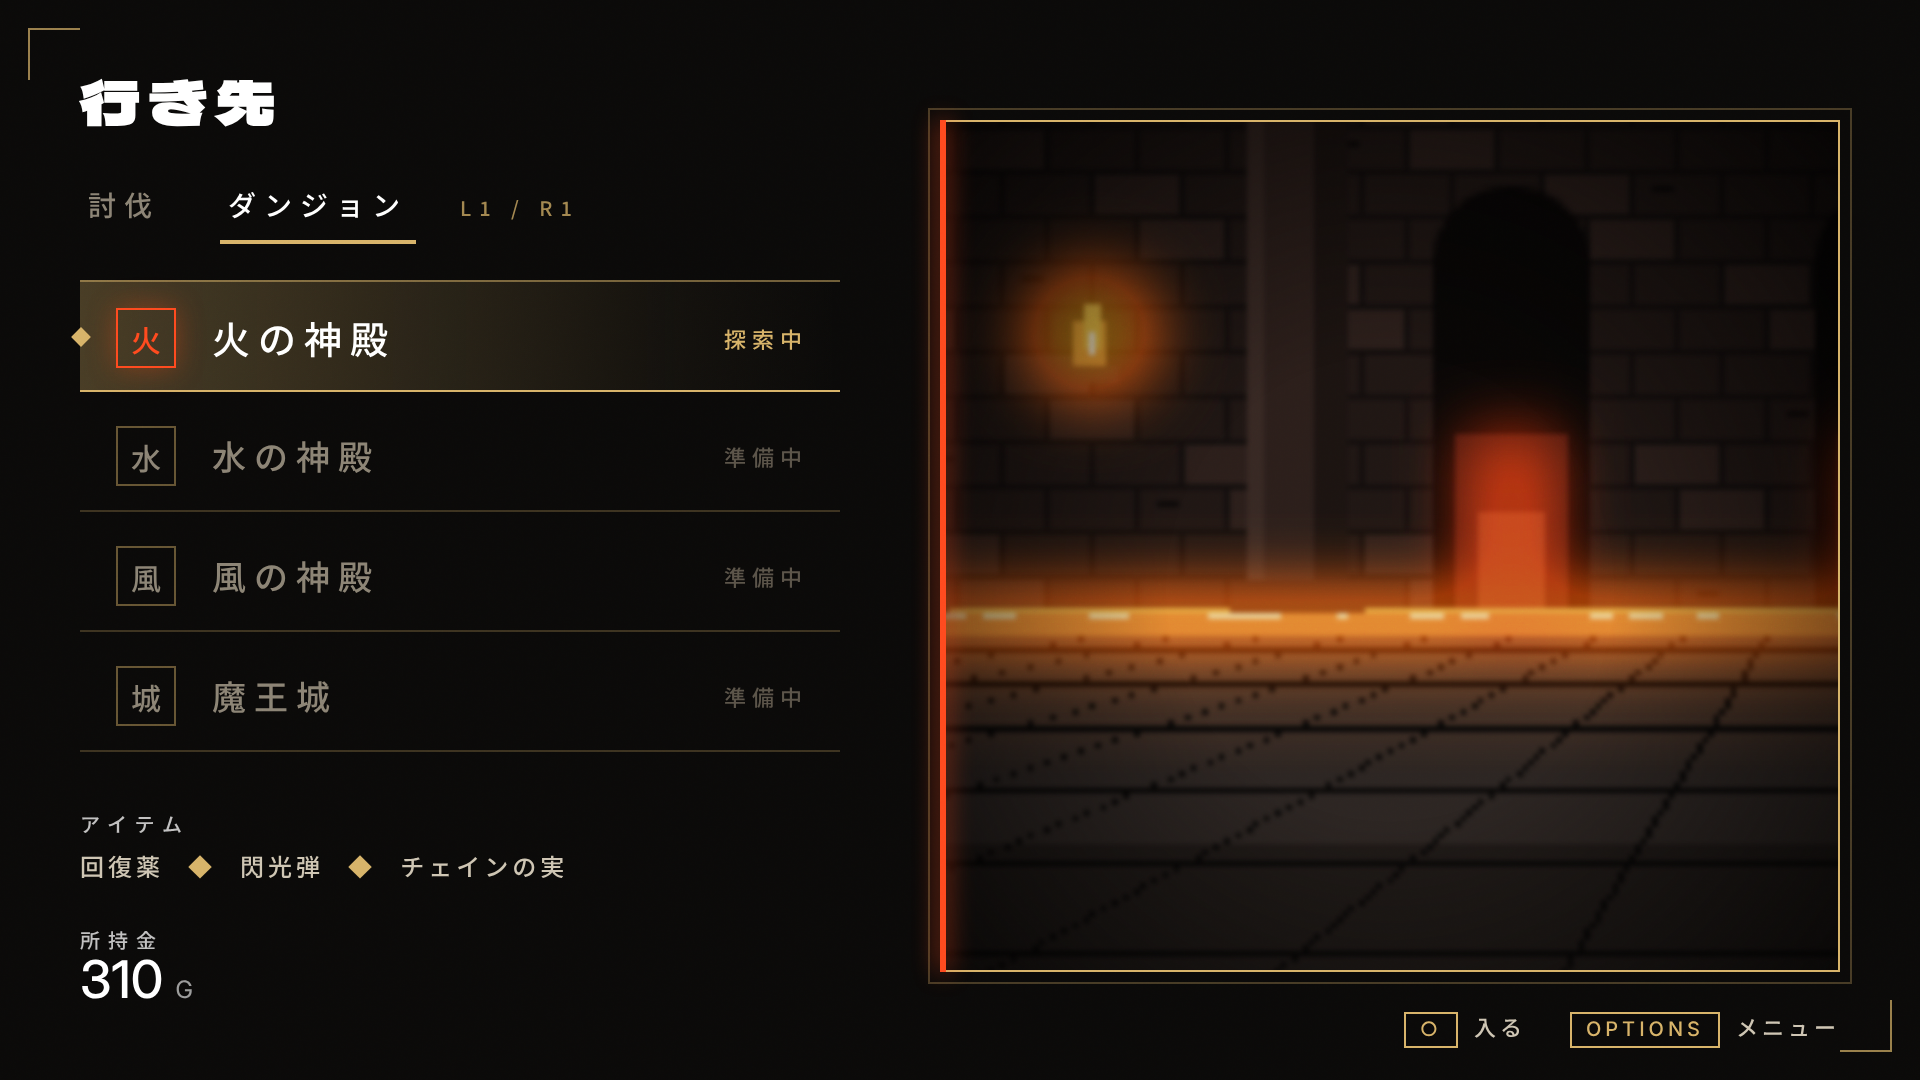
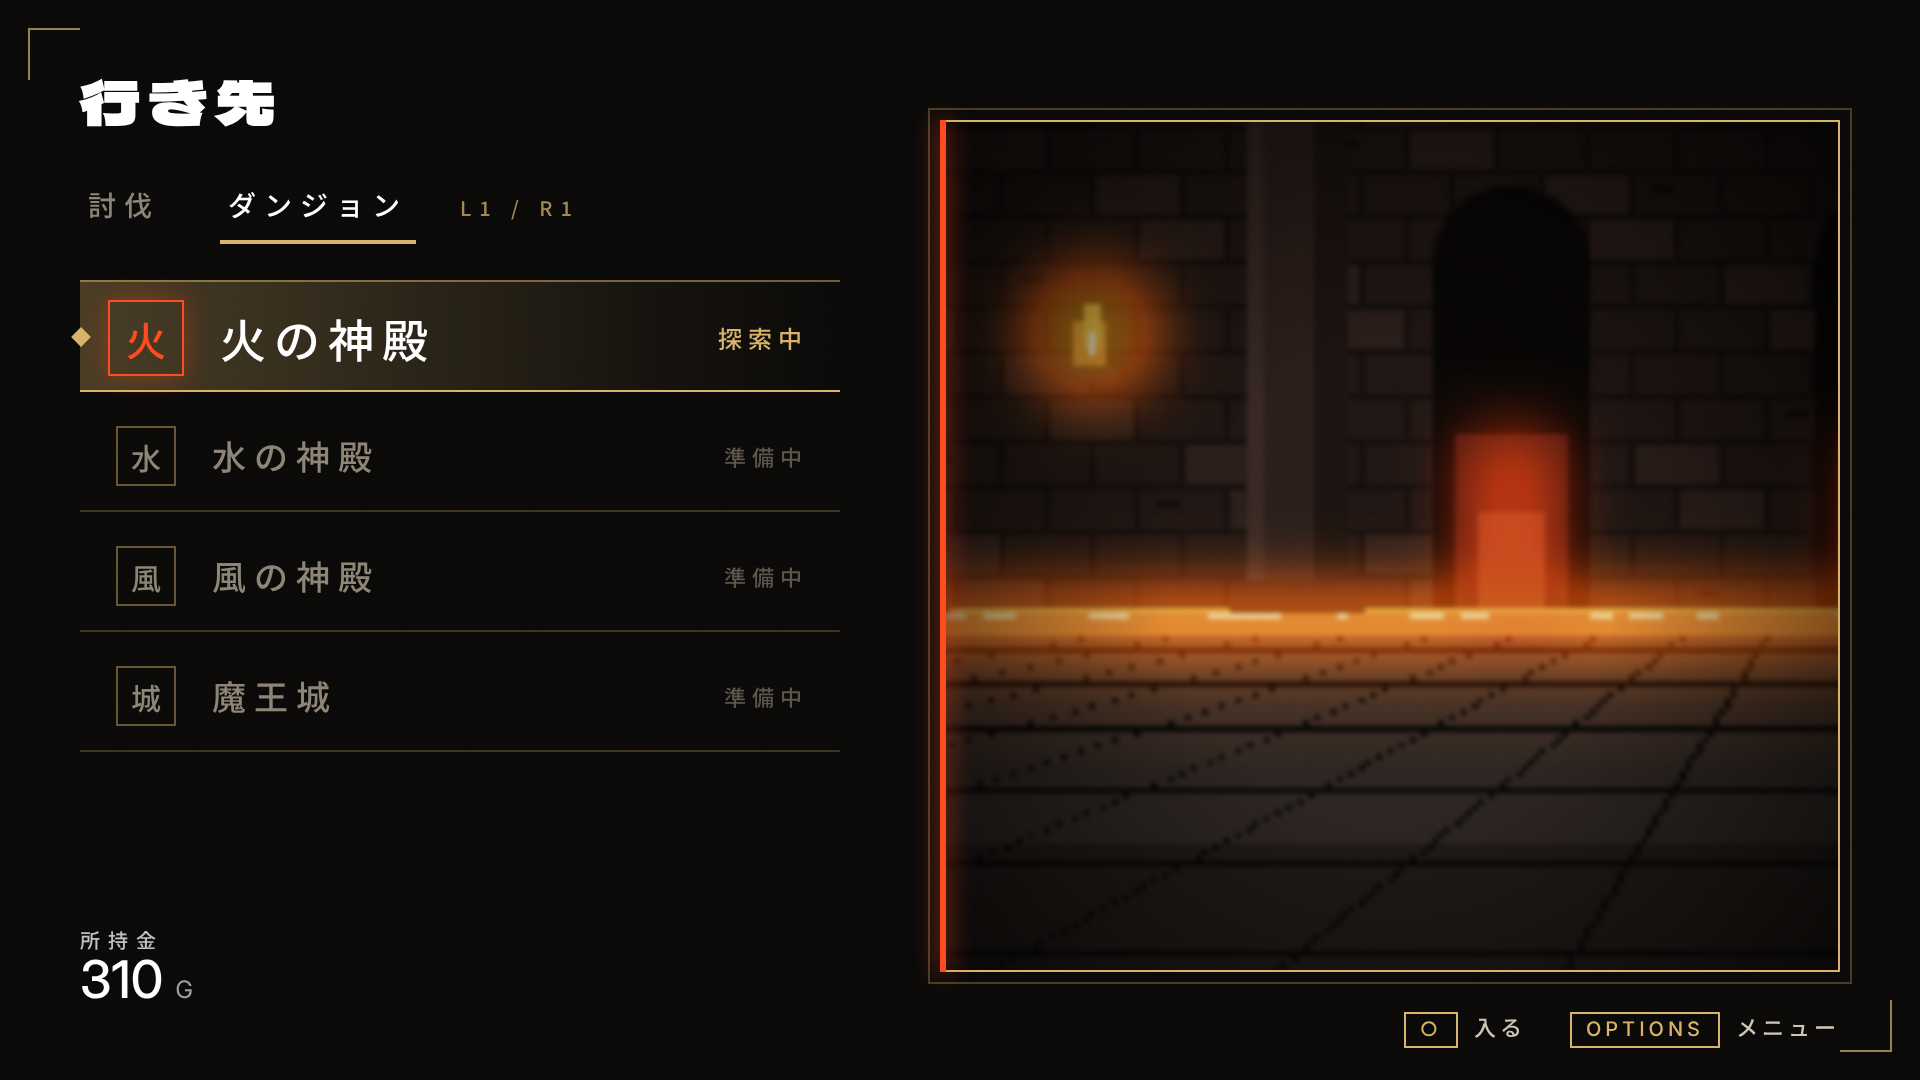
入口にいる間だけ、盤面のメニューから装備を変えられるようにする。行き先の見本を更新
Claude-Session: https://claude.ai/code/session_012hkhuSusvzYz9LFeArYnkn

Changed region(s): [[0.0312, 0.275, 0.2188, 0.3667], [0.0312, 0.7944, 0.3125, 0.825], [0.375, 0.3056, 0.4062, 0.3361]]

diff --git a/src/scenes/GameScene.ts b/src/scenes/GameScene.ts
@@ -9,7 +9,7 @@ import { DungeonRun, type DungeonDef, type Effect } from '../game/dungeon';
 import { clearSave, loadSave, rankOf, rankValue, storeSave, type Rank, type SaveData } from '../game/save';
 import { buildDeck, gearOf } from '../game/loadout';
 import { RULES, DEFS, SPELLS, WEAPONS, ARMORS, ITEMS, ENEMIES, ALL_ENEMIES, ACCESSORIES, DUNGEONS, enemyById, itemOf, SAVE_CONFIG, SHOP } from '../game/content';
-import { C, CX, CY, RING, CARD_BTN, KEEP_BTN, MON, RESULT_WAIT, MENU, PAUSE, PAUSE_DUNGEON, DMENU, EQUIP_ROWS, type Base, type Overlay, type Deal } from '../screens/common';
+import { C, CX, CY, RING, CARD_BTN, KEEP_BTN, MON, RESULT_WAIT, MENU, PAUSE, PAUSE_DUNGEON, EQUIP_ROWS, type Base, type Overlay, type Deal } from '../screens/common';
 import { drawList } from '../screens/list';
 import { drawBattle } from '../screens/battle';
 import { drawResult } from '../screens/result';
@@ -103,7 +103,11 @@ export class GameScene extends Phaser.Scene {
   toList() { this.base = 'list'; this.overlays = []; this.snd.stopBgm(); this.snd.intensity = 0; }
   toReady(e: EnemyDef) { this.enemy = e; this.base = 'ready'; this.overlays = []; this.snd.stopBgm(); this.snd.intensity = 0; this.newBattle(); }
   pop() {
-    this.overlays.pop();
+    const closed = this.overlays.pop();
+    if (closed === 'equip' && this.base === 'board' && this.run) {     // 入口で装備を変えた: アイテムの枠を作り直す
+      this.run = new DungeonRun(this.run.def, RULES.playerMaxHp, this.save.items.map(x => !!x), Math.random, { ...this.run.state });
+      this.keepRun();
+    }
     if (this.overlays.length === 0 && this.base === 'ready') this.newBattle();   // 装備を変えたかもしれないので作り直す
   }
 
@@ -151,6 +155,16 @@ export class GameScene extends Phaser.Scene {
       sv.cleared[id] = true;
     }
     this.keepRun();
+  }
+  /** 盤面のメニュー。入口（最初のマス）にいる間だけ、装備を変えられる */
+  dmenuItems(): { label: string; act: 'equip' | 'legend' | 'help' | 'restart' | 'leave' | 'close'; note?: string }[] {
+    const atStart = !!this.run && this.run.state.pos === 0;
+    return [
+      ...(atStart ? [{ label: '装備', act: 'equip' as const, note: '入口でだけ変えられる' }] : []),
+      { label: 'マスの説明', act: 'legend' }, { label: '操作説明', act: 'help' },
+      { label: this.restartArmed ? 'もう一度押すと、やり直す' : '最初からやり直す', act: 'restart' },
+      { label: 'ダンジョンから出る', act: 'leave', note: '続きから再開できる' }, { label: '閉じる', act: 'close' },
+    ];
   }
   /** 途中経過を保存する（踏破したら消す）。マスに止まるたび・戦闘のたびに呼ぶ */
   keepRun() {
@@ -337,16 +351,20 @@ export class GameScene extends Phaser.Scene {
         break;
       }
 
-      case 'dmenu':
-        if (b === 'up' || b === 'down') { this.move('dmenu', b === 'up' ? -1 : 1, DMENU.length); this.restartArmed = false; }
-        else if (back || b === 'options' || (ok && this.cur.dmenu === 4)) { this.snd.uiBack(); this.pop(); }
-        else if (ok && this.cur.dmenu <= 1) { this.snd.uiOk(); this.overlays.push(this.cur.dmenu === 0 ? 'legend' : 'help'); }
-        else if (ok && this.cur.dmenu === 2) {
+      case 'dmenu': {
+        const items = this.dmenuItems(), act = items[this.cur.dmenu]?.act;
+        if (b === 'up' || b === 'down') { this.move('dmenu', b === 'up' ? -1 : 1, items.length); this.restartArmed = false; }
+        else if (back || b === 'options' || (ok && act === 'close')) { this.snd.uiBack(); this.pop(); }
+        else if (!ok) break;
+        else if (act === 'equip') { this.snd.uiOk(); this.cur.slot = 0; this.equipFocus = 'slots'; this.overlays.push('equip'); }
+        else if (act === 'legend' || act === 'help') { this.snd.uiOk(); this.overlays.push(act); }
+        else if (act === 'restart') {
           if (!this.restartArmed) { this.restartArmed = true; this.snd.uiMove(); }      // 押し間違いを防ぐため、2回押して実行
           else { this.snd.uiOk(); this.save.run = null; this.enterDungeon(this.run!.def); }
         }
-        else if (ok && this.cur.dmenu === 3) { this.snd.uiBack(); this.leaveDungeon(); }
+        else if (act === 'leave') { this.snd.uiBack(); this.leaveDungeon(); }
         break;
+      }
 
       case 'fight': {
         const c = CARD_BTN.indexOf(b), k = KEEP_BTN.indexOf(b);
@@ -600,7 +618,7 @@ export class GameScene extends Phaser.Scene {
       // 盤面は3層を使う。メニューなどは、いちばん手前の1枚だけを最上層に描く
       drawBoard(this, a, b, this.L[2]);
       const o = this.top;
-      if (o === 'dmenu') drawDMenu(this, this.L[3]); else if (o === 'help') drawHelp(this, this.L[3]); else if (o === 'legend') drawLegend(this, this.L[3]);
+      if (o === 'dmenu') drawDMenu(this, this.L[3]); else if (o === 'equip') drawEquip(this, this.L[3]); else if (o === 'help') drawHelp(this, this.L[3]); else if (o === 'legend') drawLegend(this, this.L[3]);
       for (const l of this.L) l.end();
       return;
     }

diff --git a/e2e/flow.e2e.ts b/e2e/flow.e2e.ts
@@ -249,6 +249,20 @@ describe('ダンジョン', () => {
     expect(await scene(g.page, s => [s.run.state.pos, s.bmode])).toEqual([0, 'idle']);
   });
 
+  it('入口にいる間だけ、盤面のメニューから装備を変えられる', async () => {
+    g = await open({ weapons: ['sword', 'axe'] });
+    await enter();
+    await key(g.page, 'Escape', 'Enter');               // 先頭が「装備」
+    await waitTop(g.page, 'equip');
+    await key(g.page, 'Enter', 'ArrowDown', 'Enter', 'Backspace');   // 武器 → 2つ目
+    await waitTop(g.page, 'dmenu');
+    expect((await save(g.page)).weapon).not.toBe((await save(g.page)).weapons[0]);
+    expect(await scene(g.page, s => s.run.state.pos)).toBe(0);
+    await key(g.page, 'Escape');
+    await scene(g.page, s => { s.run.state.pos = 4; s.toBoard(); });
+    expect(await scene(g.page, s => s.dmenuItems().map((x: any) => x.act))).not.toContain('equip');
+  });
+
   it('サイコロは ○ で回し、もう一度 ○ で止める。✕ でやめられる。△ でマスの説明', async () => {
     g = await open();
     await enter();

diff --git a/src/screens/board.ts b/src/screens/board.ts
@@ -5,7 +5,7 @@ import { BOARD_PAD, boardKey, squareIconKey } from '../game/art';
 import type { Layer } from '../game/ui';
 import type { Effect, Square } from '../game/dungeon';
 import { enemyById, itemOf, ACCESSORIES } from '../game/content';
-import { C, CX, SQUARE, DMENU, guide, dim, panel, rows } from './common';
+import { C, CX, SQUARE, guide, dim, panel, rows } from './common';
 import type { GameScene } from '../scenes/GameScene';
 
 const BOX = '#0b0d13';
@@ -170,7 +170,7 @@ function drawCleared(gs: GameScene, l: Layer) {
 
 export function drawDMenu(gs: GameScene, l: Layer) {
   dim(l, 0.6);
-  panel(l, gs.run?.def.name ?? '', DMENU.map((label, i) => ({ label: i === 2 && gs.restartArmed ? 'もう一度押すと、やり直す' : label, note: i === 3 ? '続きから再開できる' : undefined })), gs.cur.dmenu, 106, 380);
+  panel(l, gs.run?.def.name ?? '', gs.dmenuItems(), gs.cur.dmenu, 106, 380);
   guide(gs, l, '↑↓ 選ぶ　　○ 決定　　✕ / OPTIONS 閉じる', '↑↓ 選ぶ　　Enter 決定　　Backspace / Esc 閉じる');
 }
 

diff --git a/src/screens/common.ts b/src/screens/common.ts
@@ -34,8 +34,6 @@ export const MENU: { label: string; off?: boolean; act?: Overlay | 'close' }[] =
 export const PAUSE = ['戦闘再開', 'やり直す', '戦闘終了'];
 /** ダンジョンの戦闘中のポーズ（逃げる手段はないので、やり直しはない） */
 export const PAUSE_DUNGEON = ['戦闘再開', 'ダンジョンから出る'];
-/** 盤面でのメニュー */
-export const DMENU = ['マスの説明', '操作説明', '最初からやり直す', 'ダンジョンから出る', '閉じる'];
 /** マスの種類ごとの色と絵 */
 export const SQUARE: Record<string, { color: string; icon: string; name: string }> = {
   start: { color: '#8a93a3', icon: 'gate', name: '入口' }, none: { color: '#6b5f58', icon: '', name: '何も起こらない' },

diff --git a/docs/look.md b/docs/look.md
@@ -111,8 +111,10 @@
 ## 8. まだ決まっていないこと
 
 - ほかの画面（メニュー類、盤面、結果）の見た目。見本をまだ作っていない。
-- 行き先の画面は、見本を1枚だけ出した（`docs/samples/style-menu-select.png`。`node look-gen2.cjs menu`）。**持ち主の返事はまだ。** 一覧の画面に戦闘の調子を当てた例で、ほかの一覧（装備、ショップ、カード編集）の下敷きにするつもりで作った。
+- 行き先の画面は、見本を1枚出し、指摘を1回反映した（`docs/samples/style-menu-select.png`。`node look-gen2.cjs menu`）。**反映後の返事はまだ。** 一覧の画面に戦闘の調子を当てた例で、ほかの一覧（装備、ショップ、カード編集）の下敷きにするつもりで作った。
   - 一覧は、金の細い線で区切る。選択中の行は、金の濃淡の帯と、左のひし形。行の頭の印は、選択中だけ差し色。
+  - 【決定】選択中の行は、印と文字を少し大きくする。
+  - 【決定】この画面にアイテムは出さない。余白ができてよい（ダンジョンの数が、そのうち変わるかもしれない）。
   - 極太は画面の題（「行き先」）の1か所だけ。
   - 右は絵だけ（説明文を置かない、という以前の指示のまま）。金の二重の細い枠、左端に差し色の線。
   - 操作の案内は右下に小さく。ボタン名は金の細い枠。

diff --git a/docs/design.md b/docs/design.md
@@ -195,6 +195,9 @@
 - 分かれ道では、いまの出目で止まるマスを道ごとに強調する（「止まる」の札）。
 - マスの絵柄の意味を見る画面（盤面で△、またはメニューの「マスの説明」）。
 
+- 入口（最初のマス）にいる間だけ、盤面のメニューから装備を変えられる（持ち主の指示）。負けて入口に戻ったときも変えられる。中ボス討伐後に戻る中間地点では変えられない。
+  - それ以外の場所では、これまでどおり変えられない。
+
 ### 実装でこちらが決めたこと（持ち主の了承は、まだ取っていない）
 
 - 戦闘の途中でポーズから外に出ると、負けた扱い（入口か中間地点に戻る）。負けそうな戦闘をやり直す抜け道をふさぐため。盤面から出るのは自由で、続きから再開できる。
